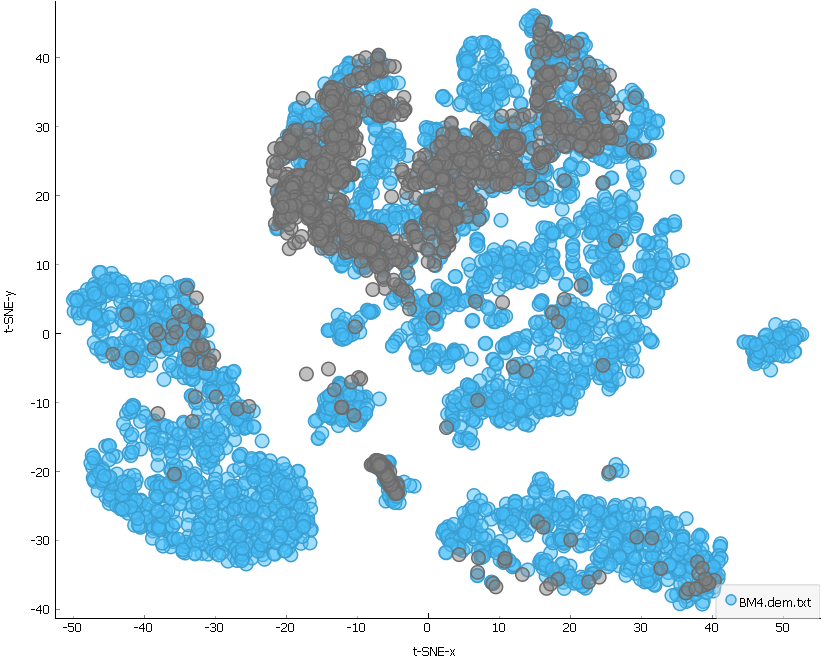
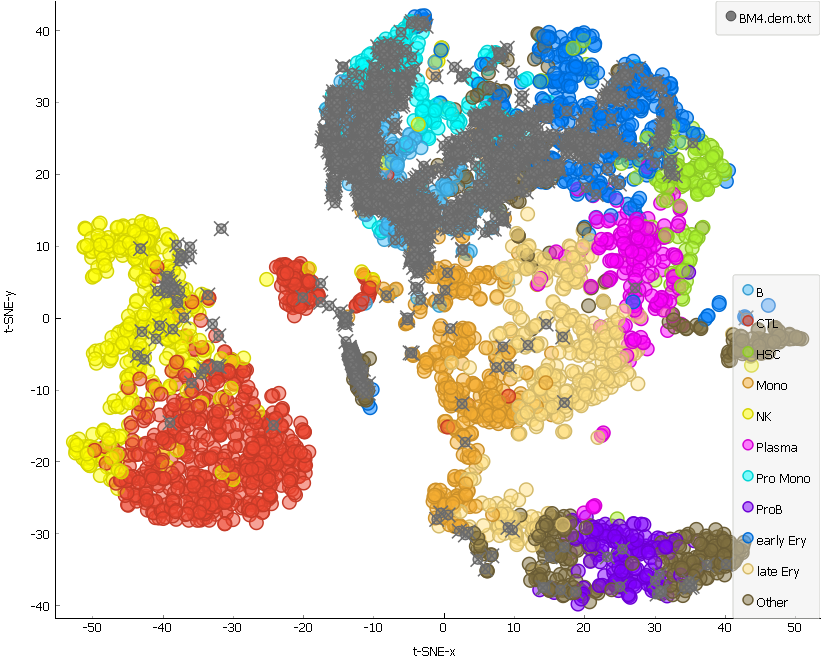
Adding cover photos, conclusion, cell types

diff --git a/content/blog/AML_projection.md b/content/blog/AML_projection.md
@@ -1,51 +1,58 @@
 +++
 draft = false
 type = "blog"
-image = "/blog_img/2019-06-14/"
-thumbImage = "/blog_img/2019-06-14/"
-date = "2019-06-10"
-title = "Projecting a New Set of Data onto t-SNE Without Reexecuting It"
+image = "/blog_img/2019-06-14/cover.png"
+thumbImage = "/blog_img/2019-06-14/cover_small.png"
+date = "2019-06-14"
+title = "Embedding New Cells onto an Existing t-SNE Projection"
 hardLineBreak = true 
-categories = ["Apply Domain", "tSNE", "projection", "chemotherapy"]
+categories = ["Apply Domain", "tSNE", "embedding", "chemotherapy"]
 joinLines = false
 author = "Iva Černoša"
 shortExcerpt = "We project single cell data from an AML patient undergoing chemotherapy onto a t-SNE of a healthy individual to analyse cell population changes in the course of treatment." 
 longExcerpt = "We analyse cell population changes in the course of chemotherapy by recreating a part of a study from Galen et al. (Cell, 2019) and projecting single cell data set from an AML patient undergoing treatment onto a t-SNE of a healthy individual." 
 +++
 
-<!-- dodaj cover slike, spremeni datum na 14-->
-Batch effect can be a real nuisance when trying to project a new dataset onto an already existing t-SNE projection. With today’s blog we will show how to bypass it in scOrange by projecting single cell data set from an AML patient onto a t-SNE clustered according to cell type we have generated in our previous <a href= ”https://singlecell.biolab.si/blog/aml_identification/”> blog</a>. 
+<i><b>Note:</b> This blog is in many ways a continuation of our previous blog <a href=" https://singlecell.biolab.si/blog/aml_identification/ "> Identification of Cell Populations in Healthy Bone Marrow </a>, therefore it is advisable for  to read it before tackling this one.</i>
+<br>
 <br>
 
-Once again we will be using the data gathered by <a href= “https://www.sciencedirect.com/science/article/pii/S0092867419300947”> Galen  <i> et al.</i> (Cell, 2019) </a> which is available in the GEO database under the accession number <a href= “https://www.ncbi.nlm.nih.gov/geo/query/acc.cgi?acc=GSE116256”>GSE116256</a>. We need the data from a healthy person (<a href= “https://www.ncbi.nlm.nih.gov/geo/query/acc.cgi?acc=GSM3588000”>BM4</a>) and one AML patient (AML556) <a href= "https://www.ncbi.nlm.nih.gov/geo/query/acc.cgi?acc=GSM3587963"> before</a>, <a href= "https://www.ncbi.nlm.nih.gov/geo/query/acc.cgi?acc=GSM3587965">15 days after</a> and <a href= "https://www.ncbi.nlm.nih.gov/geo/query/acc.cgi?acc=GSM3587967"> 31 days after</a> undergoing chemotherapy. 
+Batch effects can be a real nuisance when producing t-SNE plots of multiple data sets. With today’s blog we will show how to bypass it in scOrange by projecting single cell data set from an AML patient onto a t-SNE clustered according to cell type we have generated in our previous <a href= ”https://singlecell.biolab.si/blog/aml_identification/”> blog</a>. 
+<br>
+
+We will be using the same data as in our <a href=" https://singlecell.biolab.si/blog/aml_identification/ ">previous blog</a> gathered by <a href= “https://www.sciencedirect.com/science/article/pii/S0092867419300947”> Galen  <i> et al.</i> (Cell, 2019) </a> which is available in the GEO database under the accession number <a href= “https://www.ncbi.nlm.nih.gov/geo/query/acc.cgi?acc=GSE116256”>GSE116256</a>. More accurately, we will be using the data as we annotated it after clustering in the last blog. We need the annotated data from the healthy subject (<a href= “https://www.ncbi.nlm.nih.gov/geo/query/acc.cgi?acc=GSM3588000”>BM4</a>) and one AML patient (AML556) <a href= "https://www.ncbi.nlm.nih.gov/geo/query/acc.cgi?acc=GSM3587963"> before</a>, <a href= "https://www.ncbi.nlm.nih.gov/geo/query/acc.cgi?acc=GSM3587965">15 days after</a> and <a href= "https://www.ncbi.nlm.nih.gov/geo/query/acc.cgi?acc=GSM3587967"> 31 days after</a> undergoing chemotherapy. If you want to skip recreating the whole workflow from our previous blog, just use the Merge Data widget to merge the data from the healthy person with its <a href= “https://www.ncbi.nlm.nih.gov/geo/query/acc.cgi?acc=GSM3588001“>annotation file</a>. If you followed the previous workflow, use the Save data widget after the Merge Data widget to export the annotated data.  
 \
 \
-{{% figure src="/blog_img/2019-06-14/workflow_partial1.PNG" width="60%" height="60%" %}}
+{{% figure src="/blog_img/2019-06-14/workflow_partial1.PNG" width="55%" height="55%" %}}
 \
 \
 We have to load the data from the healthy individual and from the AML patient before the chemotherapy separately. Then run both datasets through the Genes widget, normalise it on counts per million and put it on a logarithmic scale in the Single Cell Preprocess widget. Now we make our primary t-SNE projection from the data of the healthy individual.
+
 \
 \
-{{% figure src="/blog_img/2019-06-14/workflow_partial2.PNG" width="70%" height="70%" %}}
+{{% figure src="/blog_img/2019-06-14/tSNE.png" width="95%" height="95%" %}}
 \
 \
 Next, we use the t-SNE projection of the cells from the healthy individual as a template for assessing the cells from the AML patient by using the Apply domain widget.
-<!--ali obstaja kakšna bolj primerna beseda kot assess v tem primeru?-->
+\
+\
+{{% figure src="/blog_img/2019-06-14/workflow_partial2.PNG" width="65%" height="65%" %}}
+\
+\
+
+Before we display the data, we have to merge it using the Concatenate widget where we select the append data source ID so that we can display this selection in the Scatter Plot widget. t-SNE is our primary data input and Apply Domain our template data input. 
 \
 \
 {{% figure src="/blog_img/2019-06-14/workflow.PNG" width="95%" height="95%" %}}
 \
 \
-Before we display the data, we have to merge it using the Concatenate widget where we select the append data source ID so that we can display this selection in the Scatter Plot widget. t-SNE is our primary data input and Apply Domain our template data input. 
-<br>
-
 Because we don’t want to reexecute t-SNE and run into problems with the batch effect in doing so, we use the Scatter Plot widget to display the data and set t-SNE-x and t-SNE-x as variables for the x and y axis. 
 \
 \
 {{% figure src="/blog_img/2019-06-14/Day0.png" width="95%" height="95%" %}}
 \
 \
-This is our projection of the single cell data from the AML patient before the chemotherapy onto t-SNE of the cells from a healthy person. By using the dataset sampled 15<sup>th</sup> day after the patient has first undergone chemotherapy, we can explore how the therapy affects cell populations.   
+This is our projection of the single cell data from the AML patient before the chemotherapy onto t-SNE of the cells from a healthy person. The projected cells are displayed as grey crosses. By using the dataset sampled 15<sup>th</sup> day after the patient has first undergone chemotherapy, we can explore how the therapy affects cell populations.   
 \
 \
 {{% figure src="/blog_img/2019-06-14/Day15.png" width="95%" height="95%" %}}
@@ -62,7 +69,11 @@ And how about a month after the chemotherapy?
 \
 The hematopoietic stem cells have repopulated and, as we can see from the distribution of the grey points on the t-SNE representing cells from the patient, formed different cell types. 
 <br>
-<!--dodaj zaključek-->
+
+In short, we have shown how to infer cell types with the help of t-SNE and a pre-existing reference data set with known cell types.
+<br>
+<br>
+
 *References* 
 \
 Van Galen P, Hovestadt V, Wadsworth MH, <i>et al.</i> (2016). <a href=”https://www.sciencedirect.com/science/article/pii/S0092867419300947”>Single-Cell RNA-Seq Reveals AML Hierarchies Relevant to Disease Progression and Immunity.</a> <i>Cell</i>, 176(6), 1265–1281.
